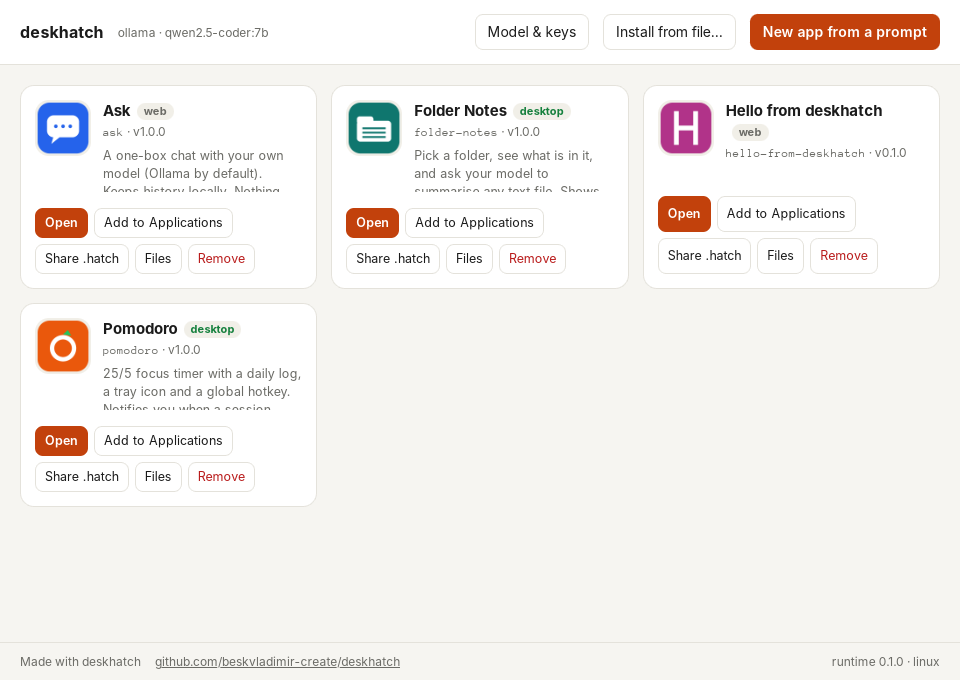
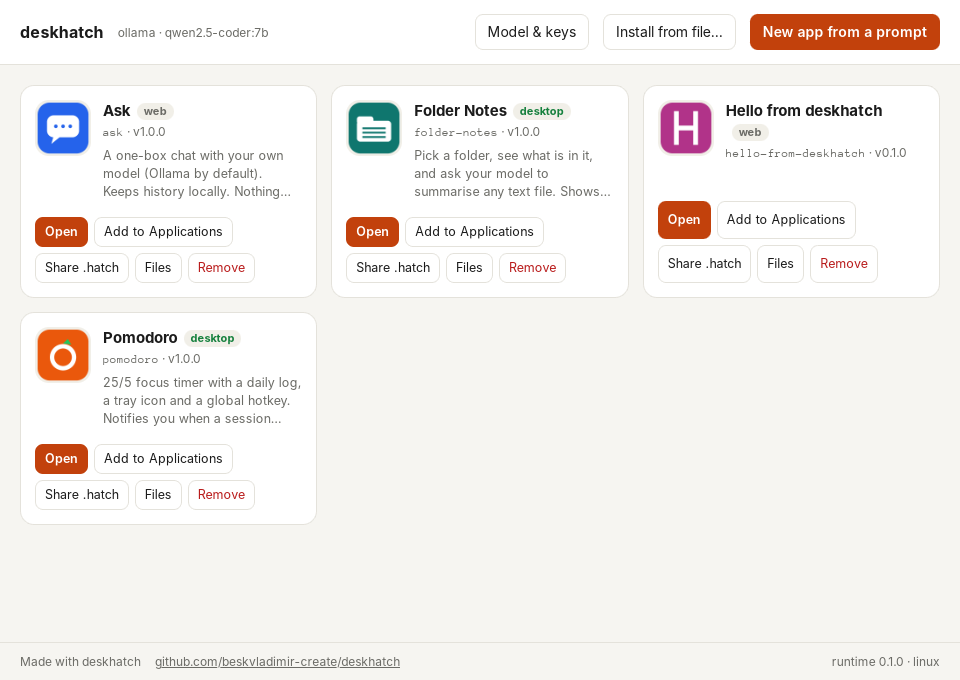
gallery: clamp descriptions to 3 lines; pomodoro: fit clock inside the ring; refresh screenshots

diff --git a/examples/pomodoro/index.html b/examples/pomodoro/index.html
@@ -11,9 +11,9 @@
   .mode { display:flex; gap:6px; background:var(--card); border:1px solid var(--line); border-radius:999px; padding:4px; }
   .mode button { border:0; background:transparent; color:var(--muted); padding:6px 14px; border-radius:999px; font:inherit; cursor:pointer; }
   .mode button.on { background:var(--accent); color:#fff; }
-  .clock { font-size:88px; font-weight:700; letter-spacing:-2px; font-variant-numeric:tabular-nums; line-height:1; margin-top:8px; }
-  .ring { width:220px; height:220px; border-radius:50%; display:grid; place-items:center; background:conic-gradient(var(--accent) var(--p,0%), var(--line) 0); }
-  .ring .in { width:196px; height:196px; border-radius:50%; background:var(--bg); display:grid; place-items:center; }
+  .clock { font-size:58px; font-weight:700; letter-spacing:-1.5px; font-variant-numeric:tabular-nums; line-height:1; margin-top:8px; }
+  .ring { width:240px; height:240px; border-radius:50%; display:grid; place-items:center; background:conic-gradient(var(--accent) var(--p,0%), var(--line) 0); }
+  .ring .in { width:214px; height:214px; border-radius:50%; background:var(--bg); display:grid; place-items:center; }
   .ctl { display:flex; gap:10px }
   .ctl button { font:inherit; font-weight:600; padding:10px 22px; border-radius:12px; border:1px solid var(--line); background:var(--card); color:var(--fg); cursor:pointer; }
   .ctl button.primary { background:var(--accent); color:#fff; border-color:transparent; }

diff --git a/runtime/gallery/index.html b/runtime/gallery/index.html
@@ -30,7 +30,7 @@
   .card img { width: 56px; height: 56px; border-radius: 14px; object-fit: cover; background: var(--soft); }
   .card .name { font-weight: 650; font-size: 15px; }
   .card .meta { color: var(--muted); font-size: 12px; margin-top: 2px; }
-  .card .desc { color: var(--muted); font-size: 12.5px; margin-top: 6px; max-height: 3.6em; overflow: hidden; }
+  .card .desc { color: var(--muted); font-size: 12.5px; margin-top: 6px; display: -webkit-box; -webkit-line-clamp: 3; -webkit-box-orient: vertical; overflow: hidden; }
   .card .actions { grid-column: 1 / -1; display: flex; flex-wrap: wrap; gap: 6px; margin-top: 4px; }
   .card .actions button { padding: 5px 9px; font-size: 12.5px; }
   .badge { display: inline-block; font-size: 11px; padding: 1px 7px; border-radius: 999px; background: var(--soft); color: var(--muted); margin-left: 6px; vertical-align: middle; }
